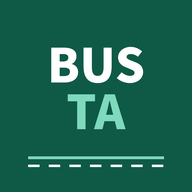
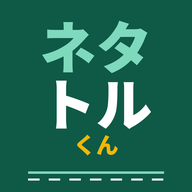
サイト名を「ネタトルくん」に変更(ロゴ・アイコン・ホーム画面名)
Claude-Session: https://claude.ai/code/session_0197x2DqAWbLKgJ2XfcG9vj7

Changed region(s): [[0.125, 0.0938, 0.875, 0.9688]]

diff --git a/index.html b/index.html
@@ -3,18 +3,18 @@
 <head>
 <meta charset="utf-8">
 <meta name="viewport" content="width=device-width,initial-scale=1,viewport-fit=cover">
-<title>BUSTA バスタ</title>
+<title>ネタトルくん</title>
 <link rel="icon" type="image/png" sizes="32x32" href="icons/favicon-32.png">
 <link rel="apple-touch-icon" href="icons/apple-touch-icon.png">
 <link rel="manifest" href="manifest.webmanifest">
 <meta name="theme-color" content="#0E5A47">
 <meta name="apple-mobile-web-app-capable" content="yes">
 <meta name="mobile-web-app-capable" content="yes">
-<meta name="apple-mobile-web-app-title" content="BUSTA">
-<meta name="description" content="BUSTA(バスタ)— 貸切バス・旅行業界のニュースを全国と鹿児島県に分けてひとまとめに。15分ごとに自動更新。">
+<meta name="apple-mobile-web-app-title" content="ネタトルくん">
+<meta name="description" content="ネタトルくん — 貸切バス・旅行業界のニュースを全国と鹿児島県に分けてひとまとめに。15分ごとに自動更新。">
 <link rel="preconnect" href="https://fonts.googleapis.com">
 <link rel="preconnect" href="https://fonts.gstatic.com" crossorigin>
-<link rel="stylesheet" href="https://fonts.googleapis.com/css2?family=Archivo:wdth,wght@112,800&family=BIZ+UDPGothic:wght@400;700&family=Noto+Serif+JP:wght@600;800&display=swap">
+<link rel="stylesheet" href="https://fonts.googleapis.com/css2?family=Zen+Maru+Gothic:wght@900&family=BIZ+UDPGothic:wght@400;700&family=Noto+Serif+JP:wght@600;800&display=swap">
 <style>
 /* Layout: newspaper masthead + region switch, main column of headlines, side rail of operational info */
 :root{
@@ -44,10 +44,10 @@ header.mast{background:var(--paper);border-bottom:3px solid var(--accent)}
 header.mast .wrap{display:flex;flex-direction:column;gap:18px;padding-block:24px 0}
 .mast-row{display:flex;flex-wrap:wrap;align-items:flex-end;justify-content:space-between;gap:16px}
 .eyebrow{font-size:13px;letter-spacing:.1em;color:var(--accent);font-weight:700}
-.logo{margin:0;display:flex;align-items:baseline;gap:12px;line-height:1}
-.logo .en{font-family:"Archivo","Arial Black",sans-serif;font-weight:800;font-stretch:112%;font-size:clamp(40px,7vw,56px);letter-spacing:.02em;color:var(--ink)}
+.logo{margin:0;display:flex;flex-wrap:wrap;align-items:baseline;gap:4px 12px;line-height:1.1}
+.logo .en{font-family:"Zen Maru Gothic","Hiragino Maru Gothic ProN","BIZ UDPGothic",sans-serif;font-weight:900;font-size:clamp(36px,7vw,52px);letter-spacing:.02em;color:var(--ink);white-space:nowrap}
 .logo .en i{font-style:normal;color:var(--accent)}
-.logo .ja{font-family:var(--body);font-weight:700;font-size:14px;letter-spacing:.3em;color:var(--muted)}
+.logo .ja{font-family:var(--body);font-weight:700;font-size:12px;letter-spacing:.2em;color:var(--muted);white-space:nowrap}
 .status{font-size:13px;color:var(--muted);text-align:right;max-width:360px}
 .status.err{color:var(--alert)}
 .seg{display:flex;border:2px solid var(--ink);align-self:flex-start}
@@ -121,7 +121,7 @@ footer .wrap{display:flex;flex-wrap:wrap;justify-content:space-between;gap:10px;
   <div class="mast-row">
     <div style="display:flex;flex-direction:column;gap:4px">
       <span class="eyebrow">貸切バス・旅行業界のニュースをひとまとめに</span>
-      <h1 class="logo"><span class="en">BUS<i>TA</i></span><span class="ja">バスタ</span></h1>
+      <h1 class="logo"><span class="en"><i>ネタ</i>トルくん</span><span class="ja">NETATORU-KUN</span></h1>
     </div>
     <div class="reload-wrap">
       <button id="reloadBtn" class="reload" type="button"><svg id="reloadIcon" viewBox="0 0 24 24" fill="none" stroke="currentColor" stroke-width="2.6" stroke-linecap="round" stroke-linejoin="round" aria-hidden="true"><path d="M21 12a9 9 0 1 1-2.64-6.36"/><path d="M21 3v6h-6"/></svg><span>最新に更新</span></button>
@@ -162,13 +162,13 @@ footer .wrap{display:flex;flex-wrap:wrap;justify-content:space-between;gap:10px;
 </main>
 
 <footer><div class="wrap">
-  <span>BUSTA(バスタ)― 貸切バス・旅行業界ニュース</span>
+  <span>ネタトルくん ― 貸切バス・旅行業界ニュース</span>
   <span>見出しの著作権は各配信元に帰属します</span>
 </div></footer>
 
 <script>
 (function(){
-  var APP_VERSION = "2026-10-04-1910";
+  var APP_VERSION = "2026-10-07-0010";
   var CAT_COLOR = {"事故":"--c-acc","貸切バス":"--c-bus","交通・道路":"--c-road","行政・制度":"--c-gov","旅行・観光":"--c-travel","インバウンド":"--c-inb","統計":"--c-stat"};
   var CAT_ORDER = ["事故","貸切バス","交通・道路","行政・制度","旅行・観光","インバウンド","統計"];
   var state = { region:"national", filter:"all", data:null, unreadOnly:false, q:"" };
